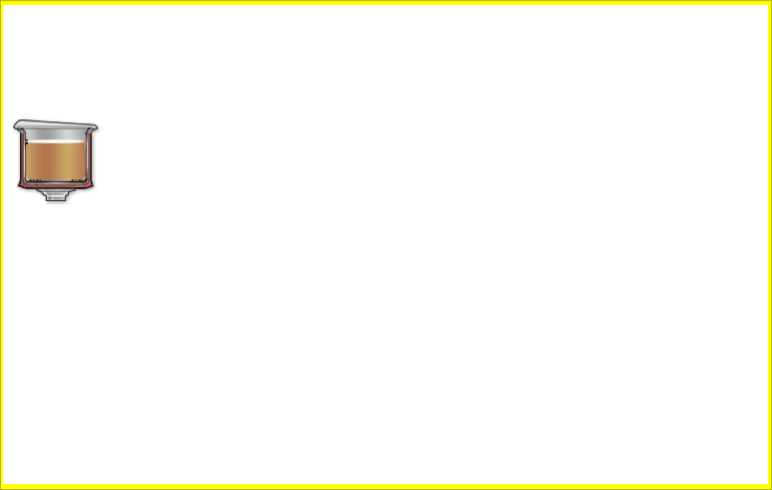
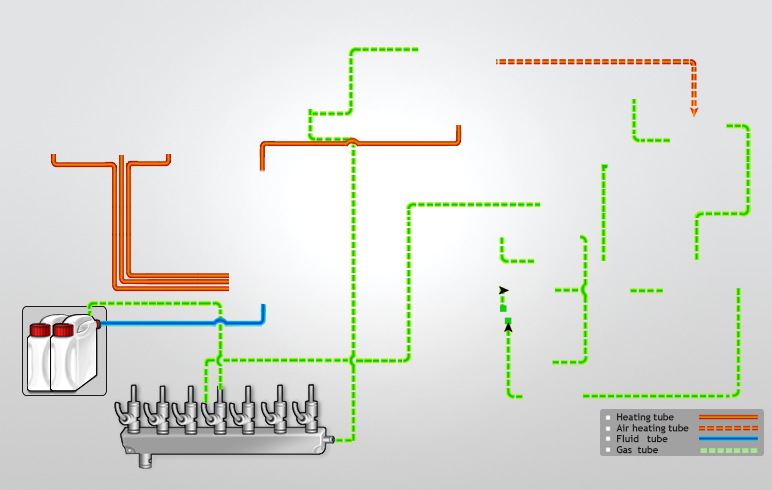
S&M:Implement SVCDiagnostics.

diff --git a/ServiceSW/Master/Components/SVCDiagnostics/Source/GraphicsItemPart.cpp b/ServiceSW/Master/Components/SVCDiagnostics/Source/GraphicsItemPart.cpp
@@ -1,24 +1,59 @@
 #include "SVCDiagnostics/Include/GraphicsItemPart.h"
 
-CGraphicsItemPart::CGraphicsItemPart()
+CGraphicsItemPart::CGraphicsItemPart(
+        const QPixmap &pixmapNormal,
+        QGraphicsItem *parent,
+        QGraphicsScene *scene):
+    QGraphicsPixmapItem(pixmapNormal,
+                         parent,
+                         scene),
+    s(false)
 {
 }
 
-CGraphicsItemPart::CGraphicsItemPart(const QPixmap &pixmap, QGraphicsItem *parent, QGraphicsScene *scene)
-    :QGraphicsPixmapItem(pixmap, parent, scene)
+CGraphicsItemPart::CGraphicsItemPart(const QPixmap &pixmapNormal,
+                                     const QPixmap &pixmapDisabled,
+                                     const QPixmap &pixmapWorking)
+    :QGraphicsPixmapItem(pixmapNormal),
+      m_PixmapNormal(pixmapNormal),
+      m_PixmapDisabled(pixmapDisabled),
+      m_PixmapWorking(pixmapWorking)
 {
-    this->setFlag(ItemIsSelectable);
+    this->setFlags(ItemIsSelectable | QGraphicsItem::ItemIgnoresParentOpacity |
+                   ItemDoesntPropagateOpacityToChildren | QGraphicsItem::ItemClipsToShape
+                   | QGraphicsItem::ItemClipsChildrenToShape);
 }
 
-QVariant CGraphicsItemPart::itemChange(GraphicsItemChange change, const QVariant &value)
+void CGraphicsItemPart::mouseReleaseEvent(QGraphicsSceneMouseEvent *event)
 {
-     switch (change) {
-     case ItemSelectedHasChanged:
-         //emit PartSelectedChange();
-        break;
-     default:
-         break;
-     };
-    return QGraphicsItem::itemChange(change, value);
+    if (s)
+    {
+       SetStatus(Working);
+       s = false;
+    }
+    else
+    {
+     SetStatus(Normal);
+     s = true;
+    }
+    emit PartSelected();
+    QGraphicsItem::mouseReleaseEvent(event);
 }
 
+void CGraphicsItemPart::SetStatus(PartStatus status)
+{
+    m_PartStatus = status;
+    if (m_PartStatus == Normal)
+    {
+        this->setPixmap(m_PixmapNormal);
+    }
+    else if (m_PartStatus == Disabled)
+    {
+        this->setPixmap(m_PixmapDisabled);
+    }
+    else if (m_PartStatus == Working)
+    {
+        this->setPixmap(m_PixmapWorking);
+    }
+    update();
+}

diff --git a/ServiceSW/Master/Components/SVCDiagnostics/Source/SVCDashboardWidget.cpp b/ServiceSW/Master/Components/SVCDiagnostics/Source/SVCDashboardWidget.cpp
@@ -20,18 +20,34 @@ CSVCDashboardWidget::CSVCDashboardWidget(QWidget *parent) :
     m_pScene = new QGraphicsScene(ui->graphicsView);
     m_pScene->setItemIndexMethod(QGraphicsScene::NoIndex);
     m_pScene->setSceneRect(0, 0, 772, 490);
-    //m_pScene->setBackgroundBrush(QImage(":/Images/SVCDiagnosticsBackground.png"));
+    m_pScene->setBackgroundBrush(QImage(":/Images/SVCDiagnosticsBackground.png"));
     ui->graphicsView->setScene(m_pScene);
 
-    m_pRetort = new CGraphicsItemPart(QPixmap(":/Images/retort.png"));
-    m_pScene->addItem(m_pRetort);
-    m_pRetort->setPos(0, 0);
+    m_pRetort = CreatePart("Retort", QPoint(406, 30));
+    m_pOven = CreatePart("Oven", QPoint(7, 70));
+    m_pRotaryValve = CreatePart("RotaryValve", QPoint(219, 154));
+
+    m_pAirHeatingTube = CreatePart("AirHeatingTube", QPoint(488, 50));
+    m_pHeatingTube = CreatePart("HeatingTube", QPoint(250, 116));
 }
 
 CSVCDashboardWidget::~CSVCDashboardWidget()
 {
     delete ui;
     delete m_pScene;
+}
+
+CGraphicsItemPart* CSVCDashboardWidget::CreatePart(const QString& partResName, const QPoint& pos)
+{
+    QString normalImg = ":/Images/" + partResName + ".png";
+    QString disabledImg = ":/Images/" + partResName + "Disabled.png";
+    QString glowImg = ":/Images/" + partResName + "Glow.png";
+    CGraphicsItemPart* pGraphicsItemPart = new CGraphicsItemPart(QPixmap(normalImg),
+                                             QPixmap(disabledImg),
+                                             QPixmap(glowImg));
+    m_pScene->addItem(pGraphicsItemPart);
+    pGraphicsItemPart->setPos(pos);
+    return pGraphicsItemPart;
 }
 
 void CSVCDashboardWidget::paintEvent(QPaintEvent* pPaintEvent)

diff --git a/ServiceSW/Master/Components/SVCDiagnostics/Include/GraphicsItemPart.h b/ServiceSW/Master/Components/SVCDiagnostics/Include/GraphicsItemPart.h
@@ -1,19 +1,39 @@
 #ifndef GRAPHICSITEMPART_H
 #define GRAPHICSITEMPART_H
 
+#include <QObject>
 #include <QGraphicsPixmapItem>
 
-class CGraphicsItemPart : public QGraphicsPixmapItem
+class CGraphicsItemPart : public QObject, public QGraphicsPixmapItem
 {
+    Q_OBJECT
 public:
-    CGraphicsItemPart();
-    CGraphicsItemPart(const QPixmap &pixmap, QGraphicsItem *parent = 0, QGraphicsScene *scene = 0);
+    CGraphicsItemPart(const QPixmap &pixmapNormal,
+                      QGraphicsItem *parent = 0,
+                      QGraphicsScene *scene = 0);
+    CGraphicsItemPart(const QPixmap &pixmapNormal,
+                      const QPixmap &pixmapDisabled,
+                      const QPixmap &pixmapWorking);
 
+    enum PartStatus {
+        Normal,
+        Disabled,
+        Working
+    };
+
+    inline PartStatus Status() { return m_PartStatus; }
+    void SetStatus(PartStatus status);
 protected:
-    virtual QVariant itemChange(GraphicsItemChange change, const QVariant &value);
+    virtual void mouseReleaseEvent(QGraphicsSceneMouseEvent *event);
 
-signals:
-    void PartSelectedChange();
+private:
+    PartStatus m_PartStatus;
+    QPixmap m_PixmapNormal;
+    QPixmap m_PixmapDisabled;
+    QPixmap m_PixmapWorking;
+    bool s;
+Q_SIGNALS:
+    void PartSelected();
 };
 
 #endif // GRAPHICSITEMPART_H

diff --git a/ServiceSW/Master/Components/SVCDiagnostics/Include/SVCDashboardWidget.h b/ServiceSW/Master/Components/SVCDiagnostics/Include/SVCDashboardWidget.h
@@ -22,10 +22,15 @@ public:
     ~CSVCDashboardWidget();
     
 private:
+    CGraphicsItemPart* CreatePart(const QString& partResName, const QPoint& pos);
     void paintEvent(QPaintEvent *p_PaintEvent);
     Ui::CSVCDashboardWidget *ui;
     QGraphicsScene *m_pScene;
     CGraphicsItemPart * m_pRetort;
+    CGraphicsItemPart * m_pOven;
+    CGraphicsItemPart * m_pRotaryValve;
+    CGraphicsItemPart * m_pHeatingTube;
+    CGraphicsItemPart * m_pAirHeatingTube;
 
 private slots:
 
